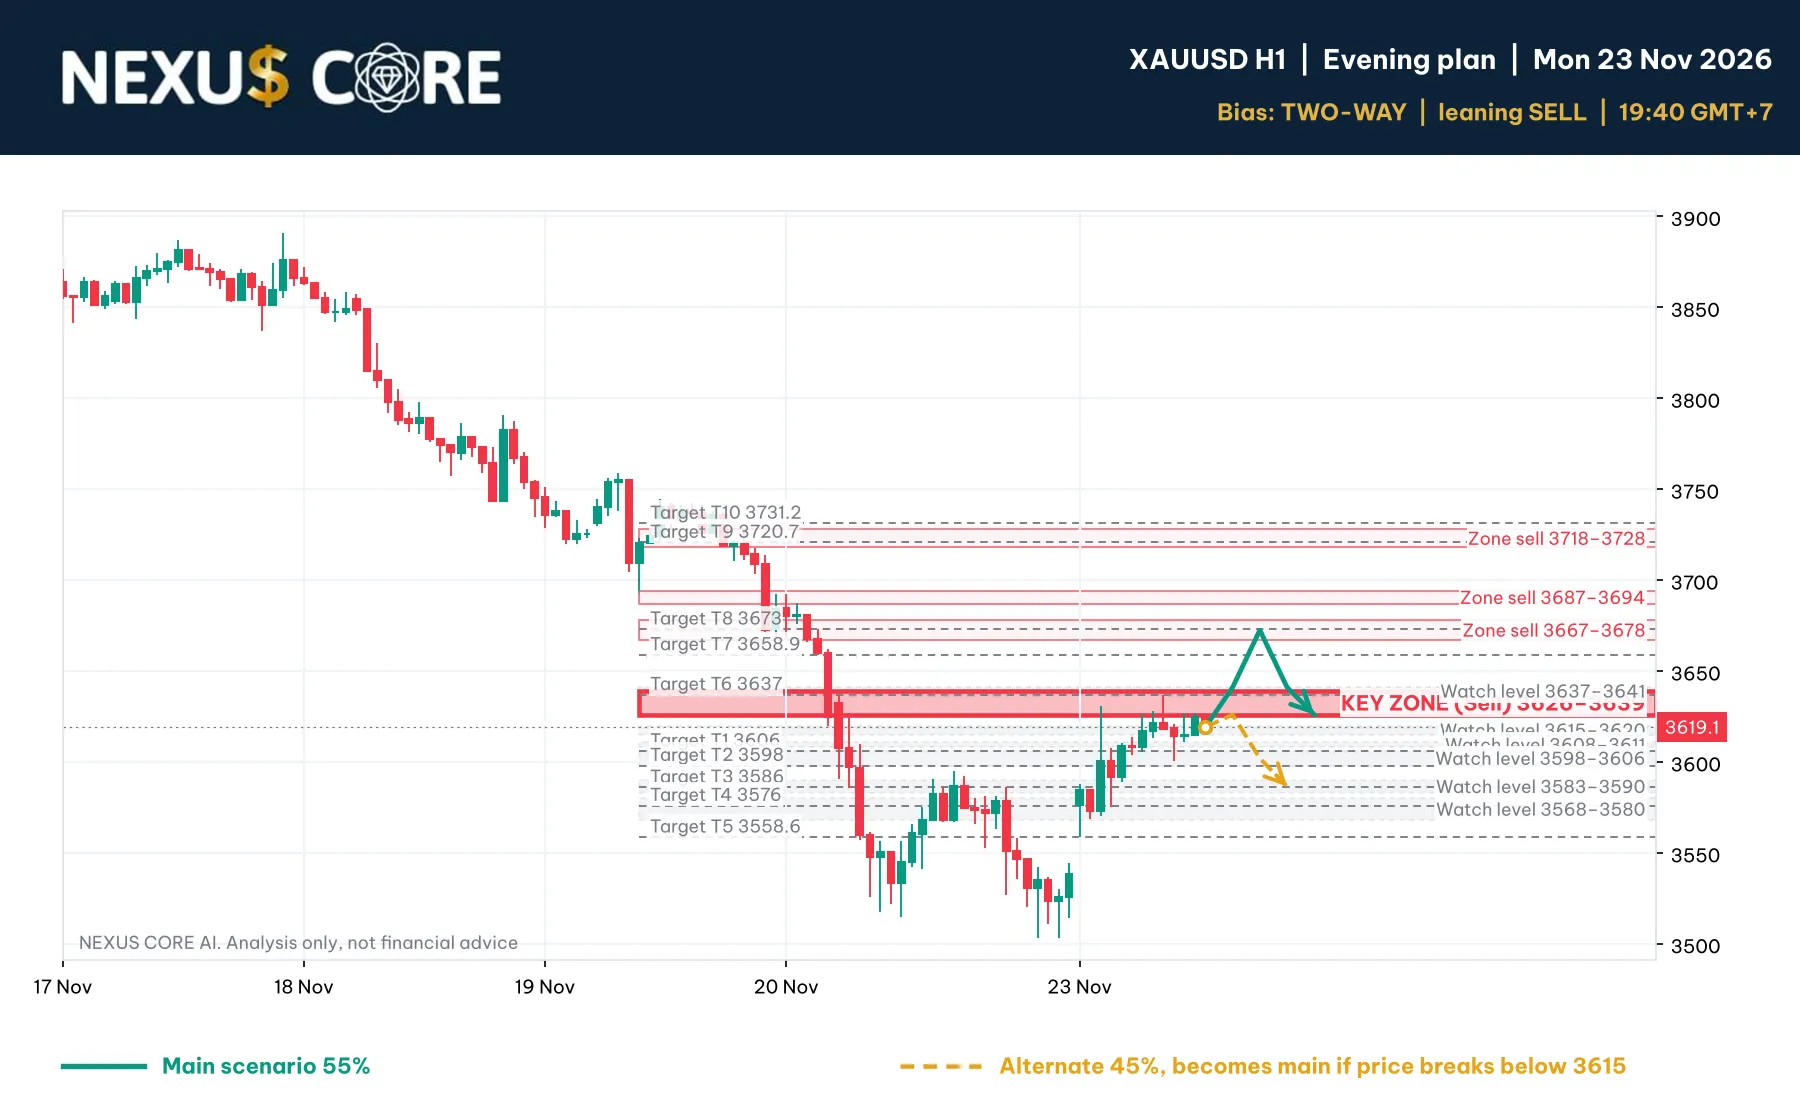
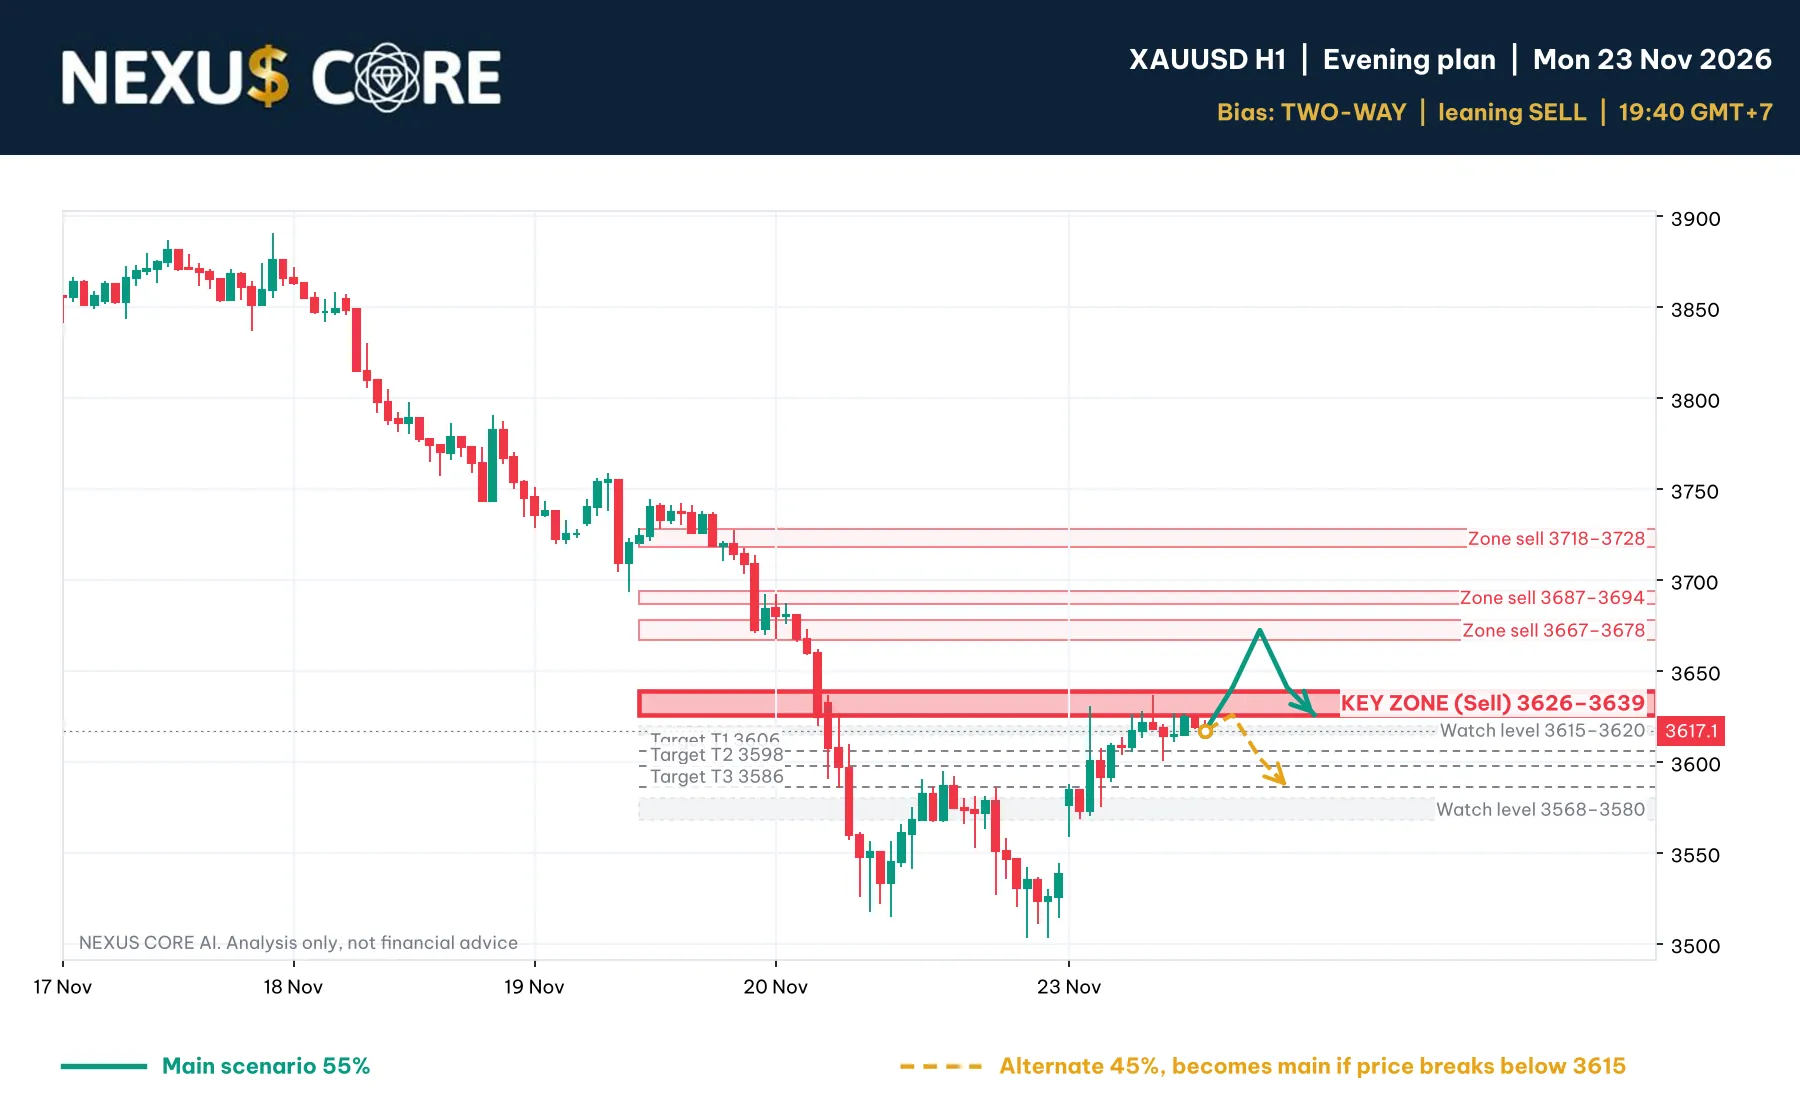
chart: draw at most 3 targets and 2 watch levels nearest the price, none overlapping a zone (23/11 1930 redrawn)
Claude-Session: https://claude.ai/code/session_01WJYGnTrbXDepCU7DbnsJKo

diff --git a/tools/chart.py b/tools/chart.py
@@ -77,16 +77,29 @@ def render(outf, mob):
         ZL.append(ax.text(X1 - 1, (a + b) / 2, lab, ha='right', va='center', fontsize=(10 if main else 8.5) * K, color=edge,
                 fontweight='bold' if main else 'normal', zorder=8, bbox=dict(fc='white', ec='none', alpha=0.92, pad=0.6)))  # labels sit above the scenario arrows
         shown += [a, b]
-    for tg in P.get('targets') or []:
+    # declutter (user 23/11/2026 "nhiều vùng watch quá, bỏ bớt"): every zone is drawn; then at most MAX_TG targets and
+    # MAX_WATCH watch levels, nearest to the price first, and none that sits on/within GAP dollars of something already drawn
+    MAX_TG, MAX_WATCH, GAP = 3, 2, 4.0
+    def free(a, b): return all(b < s0 - GAP or a > s1 + GAP for s0, s1 in taken)
+    taken = [(min(z['lo'], z['hi']), max(z['lo'], z['hi'])) for z in P.get('zones') or []]
+    tgs = sorted((q for q in P.get('targets') or [] if vis((q['lo'] + q['hi']) / 2)), key=lambda q: abs((q['lo'] + q['hi']) / 2 - px))
+    keep_tg = []
+    for q in tgs:
+        y = (q['lo'] + q['hi']) / 2
+        if len(keep_tg) < MAX_TG and free(y, y): keep_tg.append(q); taken.append((y, y))
+    wls = sorted((w for w in P.get('watch') or [] if vis(w['lo']) or vis(w['hi'])), key=lambda w: abs((w['lo'] + w['hi']) / 2 - px))
+    keep_w = []
+    for w in wls:
+        a, b = sorted([w['lo'], w['hi']])
+        if len(keep_w) < MAX_WATCH and free(a, b): keep_w.append(w); taken.append((a, b))
+    for tg in keep_tg:
         y = (tg['lo'] + tg['hi']) / 2
-        if not vis(y): continue
         ax.hlines(y, X0, X1, color=GRAY, lw=0.9, ls=(0, (4, 3)), zorder=1)
         ZL.append(ax.text(X0 + 1, y, f"{W['tgt']} {tg['label']} {fmt(tg['lo']) if tg['lo'] == tg['hi'] else fmt(tg['lo']) + '–' + fmt(tg['hi'])}",
                 color=GRAY, fontsize=8.5 * K, ha='left', va='bottom', zorder=8, bbox=dict(fc='white', ec='none', alpha=0.85, pad=0.4)))
         shown.append(y)
-    for w in P.get('watch') or []:   # plan's watch levels: not a trade zone, never graded
+    for w in keep_w:   # plan's watch levels: not a trade zone, never graded
         a, b = sorted([w['lo'], w['hi']])
-        if not (vis(a) or vis(b)): continue
         ax.add_patch(Rectangle((X0, a), X1 - X0, max(b - a, 0.8), facecolor='#B2B5BE', alpha=0.16, edgecolor=GRAY, lw=0.8, ls=(0, (3, 3)), zorder=0))
         ZL.append(ax.text(X1 - 1, (a + b) / 2, f"{W['watch']} {fmt(a)}–{fmt(b)}", ha='right', va='center', fontsize=8.5 * K, color=GRAY,
                           zorder=8, bbox=dict(fc='white', ec='none', alpha=0.92, pad=0.6)))
